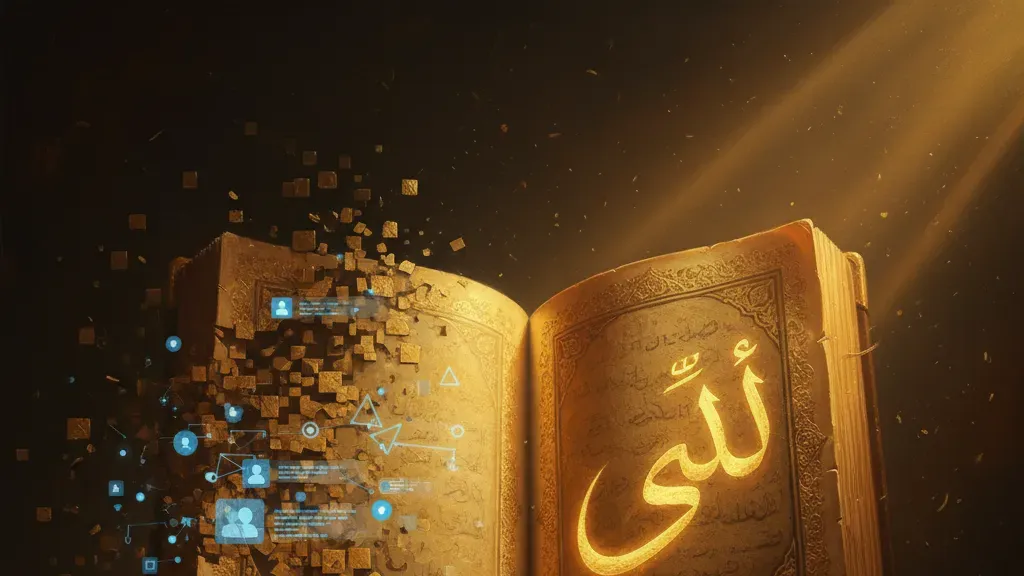
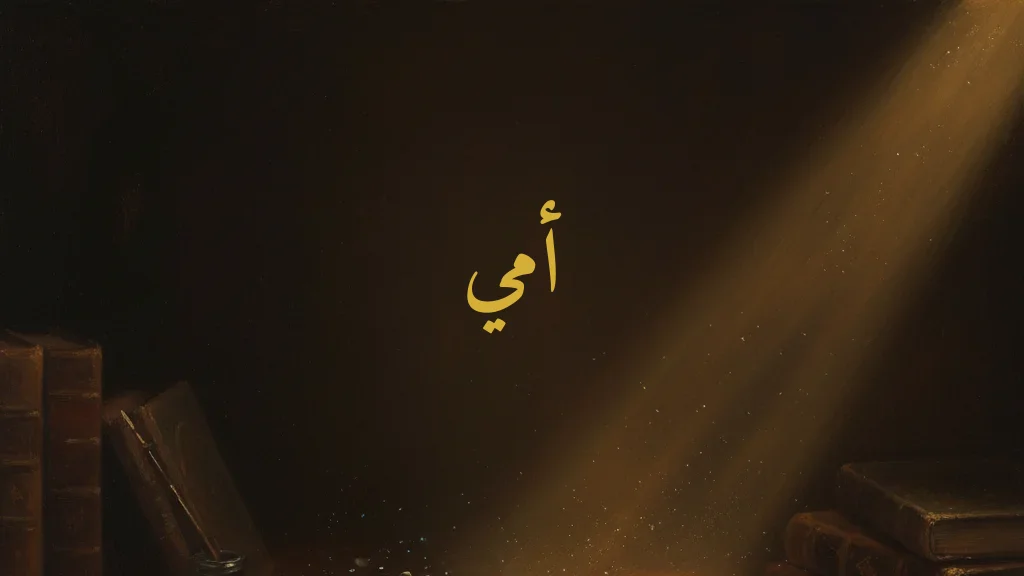
Revisi: Lima Abad Menutup Satu Halaman Tafsir — judul + isi baru, hero image أمي overlay Python

diff --git a/ibn-abbas-dan-kata-yang-berubah-makna.html b/ibn-abbas-dan-kata-yang-berubah-makna.html
@@ -3,8 +3,8 @@
 <head>
   <meta charset="UTF-8">
   <meta name="viewport" content="width=device-width, initial-scale=1.0">
-  <title>Bagaimana Sebuah Kata Menjadi Ortodoksi — Kolom Ace Afandi</title>
-  <meta name="description" content="Selama lima abad, makna kata ummī bergeser dari &quot;gentile&quot; menjadi &quot;buta huruf&quot;. Dari al-Tabari ke Ibn Kathir, dari perdebatan linguistik ke kritik sanad — satu kemungkinan makna perlahan tersisih dari ingatan.">
+  <title>Lima Abad Menutup Satu Halaman Tafsir — Kolom Ace Afandi</title>
+  <meta name="description" content="Di halaman tafsir al-Tabari ada catatan kaki yang hampir tidak ada yang membacanya. Di sana, Ibn Abbas memahami kata ummī secara berbeda dari konsensus yang kita warisi. Lima abad kemudian, perdebatan yang sama mencuat di timeline Facebook.">
   <link href="https://fonts.googleapis.com/css2?family=Amiri:ital,wght@0,400;0,700;1,400&family=Crimson+Text:ital,wght@0,400;0,600;0,700;1,400&display=swap" rel="stylesheet">
   <style>
     :root {
@@ -135,12 +135,6 @@
 
     blockquote p { margin: 0.5rem 0; }
     blockquote p:first-child { margin-top: 0; }
-
-    .inline-ref {
-      font-family: 'Amiri', serif;
-      color: var(--accent);
-      font-weight: 600;
-    }
 
     .highlight-bar {
       background: linear-gradient(135deg, #faf5e9, #f5ecd7);
@@ -282,27 +276,27 @@
 
 <header>
   <div class="series-badge">Tafsir &amp; Sejarah</div>
-  <h1>Ummī: Sebuah Makna yang Disingkirkan</h1>
-  <p class="subtitle">Perdebatan lima abad tentang makna <em>ummī</em> — dari Ibn Abbas ke al-Tabari, dari Zamakhshari ke Ibn Kathir — dan satu halaman tafsir yang menunggu dibaca ulang</p>
+  <h1>Lima Abad Menutup Satu Halaman Tafsir</h1>
+  <p class="subtitle">Di halaman tafsir al-Tabari, ada catatan kaki yang hampir tidak ada yang membacanya — pendapat Ibn Abbas tentang makna <em>ummī</em> yang berbeda dari konsensus. Dua belas abad kemudian, perdebatan yang sama mencuat di timeline Facebook.</p>
   <span class="reading-time" id="readingTime"></span>
 </header>
 
 <figure class="hero-image">
-  <img src="images/hero-ibn-abbas-ummi.webp" alt="Manuskrip tafsir kuno dengan kaligrafi Arab 'ummī' — tradisi bertemu era digital" loading="lazy" width="700" height="394">
-  <figcaption class="img-label">Kitab tafsir klasik dan kaligrafi <em>ummī</em> — ketika tradisi berabad-abad bertemu era digital</figcaption>
+  <img src="images/hero-ibn-abbas-ummi.webp" alt="Manuskrip tafsir kuno dengan kaligrafi Arab 'أمي' — tradisi berabad-abad bertemu era digital" loading="lazy" width="700" height="394">
+  <figcaption class="img-label">Halaman tafsir kuno dan kaligrafi <em>ummī</em> — ketika tradisi berabad-abad bertemu era digital</figcaption>
 </figure>
 
 <article class="content">
 
-<p class="dropcap">Di timeline FB, Mun'im Sirry dan Ustaz Nuruddin berdebat panjang tentang satu kata: <em>ummī</em>. Bagi Nuruddin — dan bagi kebanyakan Muslim — maknanya jelas: buta huruf. Nabi Muhammad tidak bisa membaca dan menulis. Karena itu, Al-Qur'an pasti wahyu Ilahi. Bagi Mun'im, memaknai <em>ummī</em> sebagai "buta huruf" adalah dogma yang muncul belakangan. Ia mengusulkan "gentile": nabi dari bangsa yang belum memiliki kitab suci.</p>
+<p class="dropcap">Di halaman tafsir al-Tabari, ada catatan kaki yang hampir tidak ada yang membacanya. Di sana, setelah menjelaskan makna <em>ummī</em> sebagai "buta huruf," al-Tabari berhenti sejenak — lalu menuliskan pendapat Ibn Abbas yang berbeda. Ia mencatatnya. Kemudian menolaknya. Dan selama dua belas abad, hampir tidak ada yang kembali ke halaman itu.</p>
 
-<p>Saya dibesarkan dengan makna pertama. Kata <em>ummī</em> diajarkan kepada saya — seperti kepada jutaan anak Muslim lain — sebagai bukti kemukjizatan. Saya baru tahu ada perdebatan tentangnya setelah dewasa.</p>
+<p>Saya dibesarkan dengan makna "buta huruf." Kata <em>ummī</em> diajarkan kepada saya — seperti kepada jutaan anak Muslim lain — sebagai bukti kemukjizatan. Saya baru tahu ada perdebatan tentangnya setelah dewasa.</p>
+
+<p>Baru-baru ini, perdebatan itu mencuat lagi — ketika Mun'im Sirry, akademisi Islamic Studies, dan Ustaz Nuruddin, penulis buku <em>Membuktikan Al-Qur'an sebagai Kalam Ilahi</em>, berselisih di media sosial tentang makna kata ini.</p>
 
 <div class="highlight-bar">
-  Esai ini tidak hendak menentukan siapa yang benar. Posisi saya bukan membela Mun'im atau Nuruddin. Posisi saya pada metodologi. Dan metodologi menuntut kita bertanya: bagaimana satu kemungkinan linguistik berubah menjadi ortodoksi selama lima abad?
+  Posisi saya bukan pada Mun'im Sirry atau Ustaz Nuruddin — posisi saya pada metodologi. Dan metodologi menuntut kita bertanya: bagaimana satu kemungkinan linguistik berubah menjadi ortodoksi selama lima abad?
 </div>
-
-<p>Perdebatan ini sudah berusia lima abad. Halaman yang tepat sudah ada sejak awal.</p>
 
 <div class="section-ornament">✦ ✦ ✦</div>
 
@@ -318,7 +312,7 @@
 
 <div class="section-ornament">✦ ✦ ✦</div>
 
-<p>Di sinilah perdebatan Mun'im-Nuruddin menemukan akarnya. Bukan di ruang seminar PTIQ, bukan di halaman buku. Tapi di halaman tafsir abad ke-3 Hijriah — di mana seorang mufassir besar merekam dua makna untuk satu kata, dan kemudian memilih satu sambil menyingkirkan yang lain.</p>
+<p>Di sinilah perdebatan tentang <em>ummī</em> menemukan akarnya. Bukan di timeline Facebook tempat Mun'im Sirry dan Ustaz Nuruddin berdebat tahun 2025. Bukan di ruang seminar PTIQ. Tapi di halaman tafsir abad ke-3 Hijriah — di mana seorang mufassir besar merekam dua makna untuk satu kata, dan kemudian memilih satu sambil menyingkirkan yang lain.</p>
 
 <div class="evidence-box">
   <h4>Enam Ayat <em>Ummī</em> dalam Al-Qur'an</h4>
@@ -369,8 +363,8 @@
 <p>Al-Zamakhshari — mufassir Mu'tazili yang menulis <em>al-Kashshāf</em> pada abad ke-6 Hijriah — memberi kita titik data yang mengejutkan. Dalam tafsirnya untuk ayat yang sama, ia menulis:</p>
 
 <blockquote>
-  <p>ومنهم أميون: <strong>لا يحسنون الكتب</strong> فيطالعوا التوراة ويتحققوا ما فيها<br>
-  <em>"Wa minhum ummiyyūn</em>: <strong>mereka tidak bisa menulis</strong>, sehingga tidak bisa mempelajari Taurat dan memverifikasi isinya."</p>
+  <p>ومنهم أميون: <strong>لا يحسنون الكتب</strong> فيطالعوا التوراة ويتحققوا ما فيها</p>
+  <p><em>"Wa minhum ummiyyūn</em>: <strong>mereka tidak bisa menulis</strong>, sehingga tidak bisa mempelajari Taurat dan memverifikasi isinya."</p>
 </blockquote>
 
 <p>Tidak ada penyebutan Ibn Abbas. Tidak ada pengakuan bahwa pernah ada makna alternatif. Al-Zamakhshari — yang hidup hanya 200 tahun setelah al-Tabari — menulis seolah-olah perdebatan itu tidak pernah terjadi. Makna "gentile" lenyap total dari halaman tafsirnya.</p>
@@ -378,8 +372,8 @@
 <p>Tapi enam puluh delapan tahun kemudian, Fakhr al-Dīn al-Rāzī membukanya kembali. Dalam <em>Mafātīḥ al-Ghayb</em>, ia secara eksplisit mencatat dua pendapat — dan kemudian memberikan vonis yang tidak ambigu:</p>
 
 <blockquote>
-  <p>اختلفوا في الأمي فقال بعضهم: هو من لا يقر بكتاب ولا برسول. وقال آخرون: من لا يحسن الكتابة والقراءة. <strong>وهذا الثاني أصوب.</strong><br>
-  <em>"Mereka berbeda pendapat tentang al-ummī. Sebagian berkata: ia adalah orang yang tidak mengakui kitab maupun rasul. Yang lain berkata: orang yang tidak bisa menulis dan membaca. <strong>Dan pendapat kedua inilah yang lebih benar.</strong>"</em></p>
+  <p>اختلفوا في الأمي فقال بعضهم: هو من لا يقر بكتاب ولا برسول. وقال آخرون: من لا يحسن الكتابة والقراءة. <strong>وهذا الثاني أصوب.</strong></p>
+  <p><em>"Mereka berbeda pendapat tentang al-ummī. Sebagian berkata: ia adalah orang yang tidak mengakui kitab maupun rasul. Yang lain berkata: orang yang tidak bisa menulis dan membaca. <strong>Dan pendapat kedua inilah yang lebih benar.</strong>"</em></p>
 </blockquote>
 
 <p>Kata <em>aṣwab</em> — "lebih benar" — bukan "salah." Al-Rāzī tidak mengatakan pendapat pertama keliru. Ia mengatakan pendapat kedua "lebih benar." Hierarki, bukan vonis mutlak. Tapi dalam tradisi tafsir, "lebih benar" segera menjadi "satu-satunya yang benar."</p>
@@ -394,7 +388,7 @@
 
 <p>Tapi ada satu hal yang belum dilakukan oleh siapa pun dalam perdebatan ini: memeriksa sanadnya sendiri.</p>
 
-<p>Ibn Kathir mempertanyakan sanad riwayat Ibn Abbas — tapi ia tidak memeriksanya secara rinci. Saya membuka al-Dhahabī, <em>Mīzān al-I'tidāl</em>, dan melacak setiap perawi dalam rantai: Abū Kurayb → 'Uthmān ibn Sa'īd → Bishr ibn 'Umāra → Abū Rawq → al-Ḍaḥḥāk → Ibn 'Abbās.</p>
+<p>Ibn Kathir mempertanyakan sanad riwayat Ibn Abbas — tapi ia tidak memeriksanya secara rinci. Saya memutuskan untuk melakukannya. Saya membuka al-Dhahabī, <em>Mīzān al-I'tidāl</em>, dan melacak setiap perawi dalam rantai: Abū Kurayb → 'Uthmān ibn Sa'īd → Bishr ibn 'Umāra → Abū Rawq → al-Ḍaḥḥāk → Ibn 'Abbās.</p>
 
 <p>Hasilnya tidak menggembirakan — untuk kedua belah pihak.</p>
 
@@ -402,13 +396,15 @@
 
 <p>Untuk Bishr ibn 'Umāra — perawi di atasnya — penilaiannya campur tapi cukup serius: al-Nasā'ī mendha'īfkannya, al-Bukhārī mengatakan <em>"ya'rif wa yunkar"</em> (ia dikenal, tapi riwayatnya diingkari). Ibn 'Adī lebih lunak — hadisnya "lebih dekat kepada kelurusan" — tapi itu bukan pembelaan yang kuat.</p>
 
-<p>Dari sisi yang menyerangnya: sanad yang lemah <strong>tidak berarti matn-nya salah.</strong> Hanya berarti ia tidak bisa dijadikan dalil yang mengikat. Dan inilah yang membuat saya terdiam: al-Ṭabarī sendiri mengakui bahwa ia meragukan rantai ini. Dalam catatan kaki edisi al-Turkī, sang editor mengungkapkan:</p>
+<p>Dari sisi yang menyerangnya: sanad yang lemah <strong>tidak berarti matn-nya salah.</strong> Hanya berarti ia tidak bisa dijadikan dalil yang mengikat. Dan inilah yang membuat saya terdiam: al-Ṭabarī sendiri — yang meriwayatkan melalui rantai yang persis sama untuk puluhan ayat — mengakui bahwa ia meragukan rantai ini. Dalam catatan kaki edisi al-Turkī, sang editor mengungkapkan:</p>
 
 <blockquote>
   <p>"Al-Ṭabarī sendiri berkata: 'Kalau ini sahih — dan aku tidak tahu ia sahih, karena rantainya diragukan'… Meskipun dia meragukannya, dia banyak meriwayatkan melaluinya. <strong>Tapi dia tidak pernah menjadikannya sebagai hujjah.</strong>"</p>
 </blockquote>
 
 <p>Jujur: saya berharap bisa membuktikan bahwa Ibn Abbas benar-benar mengatakan itu dengan sanad yang kuat. Tapi metodologi tidak peduli dengan harapan. Yang bisa saya katakan adalah: makna "gentile" mungkin otentik sebagai tradisi tafsir Kufah — tapi rantai spesifik ini tidak bisa membuktikannya. Dan itu membuat posisi Ibn Kathir <em>benar secara teknis</em>, sekaligus tidak cukup untuk mengubur makna alternatif itu selamanya.</p>
+
+<p>Tapi bagi sebagian orang, semua analisis sanad ini tidak relevan. Ada argumen yang lebih besar dari sanad.</p>
 
 <div class="section-ornament">✦ ✦ ✦</div>
 
@@ -434,7 +430,9 @@
 
 <p>Tapi data yang paling keras bukanlah linguistik atau Qur'anik. Ia adalah historis. Ia adalah fakta bahwa Ibn Abbas — <em>tarjumān al-Qur'ān</em>, juru tafsir paling otoritatif di kalangan sahabat — memahami kata ini secara berbeda dari konsensus yang kita warisi hari ini. Bahwa al-Tabari merekam pendapatnya sebelum menolaknya. Bahwa al-Zamakhshari menghapusnya. Bahwa al-Razi memunculkannya kembali hanya untuk mengalahkannya. Dan bahwa Ibn Kathir menyerang sanadnya ketika argumen linguistik sudah tidak cukup.</p>
 
-<p>Dan di luar halaman tafsir, bukti-bukti lain menumpuk. Sumber-sumber Islam paling awal — seperti yang ditunjukkan Anthony dan Bronson — "berbicara tanpa ragu tentang Nabi mampu membaca dan menulis." Ibn Ishaq, penulis <em>sīrah</em> tertua yang sampai kepada kita, meriwayatkan bahwa Nabi Muhammad menulis sendiri sebuah ayat pada lembaran kulit. Lingkungannya pun bukan padang pasir buta huruf: Nöldeke menghitung 44 sahabat yang bisa baca-tulis, Michael Lecker mendokumentasikan sekolah Ibrani di Madinah tempat Zayd ibn Thābit belajar tiga bahasa sebelum menjadi sekretaris Nabi Muhammad, dan Hythem Sidky — salah satu otoritas terkemuka dalam bidang ini — meyakini adanya sekolah juru tulis di Mekah.</p>
+<p>Dan di luar halaman tafsir, bukti-bukti lain menumpuk. Sumber-sumber Islam paling awal — seperti yang ditunjukkan Anthony dan Bronson — "berbicara tanpa ragu tentang Nabi mampu membaca dan menulis." Ibn Ishaq, penulis <em>sīrah</em> tertua yang sampai kepada kita, meriwayatkan bahwa Nabi Muhammad menulis sendiri sebuah ayat pada lembaran kulit.</p>
+
+<p>Lingkungannya pun bukan padang pasir buta huruf. Nöldeke menghitung 44 sahabat yang bisa baca-tulis. Michael Lecker mendokumentasikan sekolah Ibrani di Madinah tempat Zayd ibn Thābit belajar tiga bahasa sebelum menjadi sekretaris Nabi Muhammad. Hythem Sidky — salah satu otoritas terkemuka dalam bidang ini — meyakini adanya sekolah juru tulis di Mekah.</p>
 
 <p>Narasi "Nabi Muhammad buta huruf absolut" tidak muncul dari sumber-sumber paling awal. Ia muncul belakangan — bersamaan dengan periode ketika ia paling dibutuhkan.</p>
 
